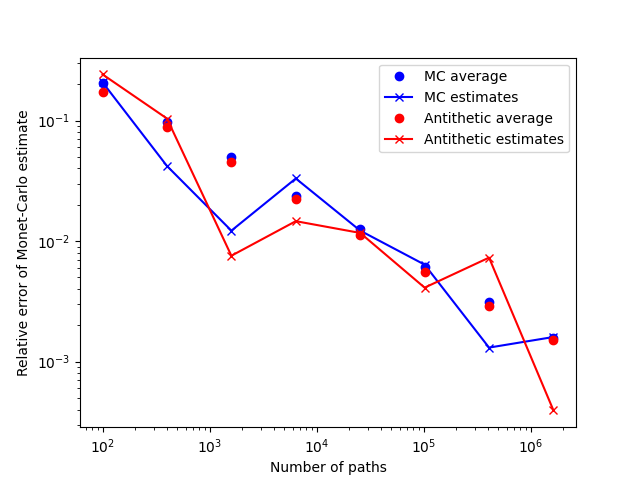
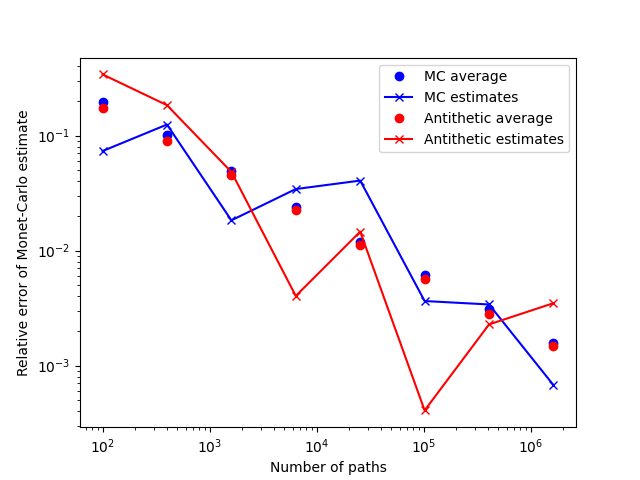
Hull-White model: New convergence plots.

diff --git a/docs/appendix_convergence.tex b/docs/appendix_convergence.tex
@@ -1,10 +1,43 @@
 
 \begin{figure}
 \centering
+\includegraphics[scale=0.7]{figures/hw_1f_zero_coupon_bond/density_2d_ZCBond_False.png}
+\includegraphics[scale=0.7]{figures/hw_1f_zero_coupon_bond/density_2d_ZCBond_400.png}
+\caption{Zero-coupon bond price...}
+\end{figure}
+
+
+\begin{figure}
+\centering
+\includegraphics[scale=0.7]{figures/hw_1f_call_option/density_2d_Call_False.png}
+\includegraphics[scale=0.7]{figures/hw_1f_call_option/density_2d_Call_400.png}
+\caption{Call option price...}
+\end{figure}
+
+
+\begin{figure}
+\centering
+\includegraphics[scale=0.7]{figures/hw_1f_put_option/density_2d_Put_False.png}
+\includegraphics[scale=0.7]{figures/hw_1f_put_option/density_2d_Put_400.png}
+\caption{Put option price...}
+\end{figure}
+
+
+\begin{figure}
+\centering
+\includegraphics[scale=0.7]{figures/hw_1f_swap/density_2d_Swap_False.png}
+\includegraphics[scale=0.7]{figures/hw_1f_swap/density_2d_Swap_400.png}
+\caption{Floating-for-fixed swap price...}
+\end{figure}
+
+
+\begin{figure}
+\centering
 \includegraphics[scale=0.7]{figures/density_3d_ZCBond_False.png}
 \includegraphics[scale=0.7]{figures/density_3d_ZCBond_True.png}
 \caption{...}
 \end{figure}
+
 
 \begin{figure}
 \centering
@@ -12,6 +45,7 @@
 \includegraphics[scale=0.7]{figures/hw_1f_swap/mc_error_Swap.png}
 \caption{Average relative error of Monte-Carlo estimate of zero-coupon bond (top) and swap (bottom) price as a function of number of paths per estimate. The errors are averaged over 1000 simulations. Examples of single Monte-Carlo estimates are shown with crosses...}
 \end{figure}
+
 
 \begin{figure}
 \centering
